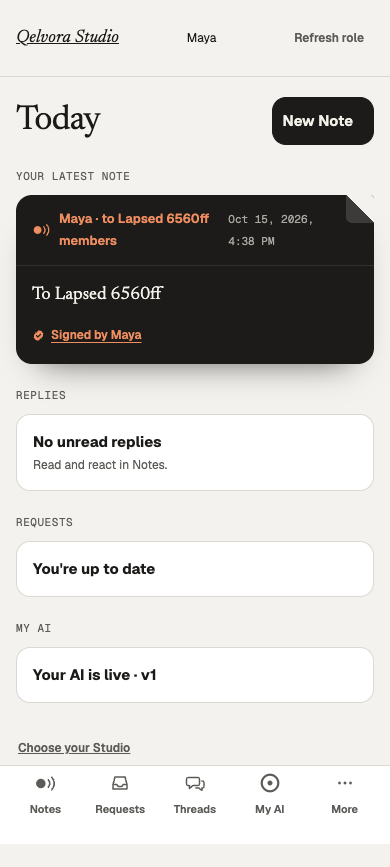
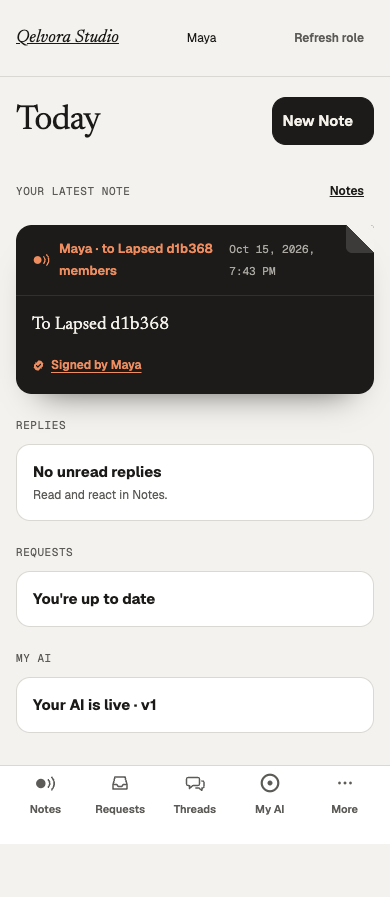
[lane 6] WP 6.2: Notes is one tap from Today; ready for a Today tab
The founder decided (2026-10-15) that Today replaces Notes as the first
Studio tab and that Notes stays reachable from Today. Today's Note part now
links to Notes for every role that sees it, and Studio maps a "Today" tab
to Today, so the integrator's tab bar change in packages/ui-web (ticketed
in the lane 6 status) needs nothing more from lane 6 to work. The founder's
approval of the new copy is recorded too.

E6.2-29, -30 and -31 prove Notes is one tap away for the creator, a drafter
and triage; E6.1 on the final code is unchanged outside the composer.

diff --git a/apps/web/features/studio/today/Today.tsx b/apps/web/features/studio/today/Today.tsx
@@ -140,9 +140,15 @@ export function Today({ creator }: { creator: Creator }) {
         )}
       </header>
       <section className="w5-today-part" aria-labelledby="w5-today-note">
-        <h2 id="w5-today-note" className="qv-meta">
-          {copy.studioTodayLatestNote}
-        </h2>
+        <div className="w5-today-head">
+          <h2 id="w5-today-note" className="qv-meta">
+            {copy.studioTodayLatestNote}
+          </h2>
+          {/* Notes is reached from Today (founder, 2026-10-15). */}
+          <Link className="qv-link-btn" href={`/studio/${id}/notes`}>
+            {copy.navNotes}
+          </Link>
+        </div>
         {status(note)}
         {note.state === "ready" &&
           (note.value ? (

diff --git a/apps/web/features/studio/studio.css b/apps/web/features/studio/studio.css
@@ -285,7 +285,18 @@
   flex-direction: column;
   gap: var(--space-3);
 }
-.w5-studio .w5-today-part > h2.qv-meta {
+.w5-today-head {
+  display: flex;
+  align-items: center;
+  justify-content: space-between;
+  gap: var(--space-2);
+}
+.w5-today-head > a {
+  display: inline-flex;
+  align-items: center;
+  color: var(--ink);
+}
+.w5-studio .w5-today-part h2.qv-meta {
   font-size: 11px;
   font-weight: 400;
 }

diff --git a/apps/web/features/studio/Studio.tsx b/apps/web/features/studio/Studio.tsx
@@ -196,6 +196,7 @@ export function Studio({
     // A composer opened from Today returns there; otherwise to Notes.
     composeBack = `${root}/${from === "today" ? "today" : "notes"}`;
   const paths: Record<string, string> = {
+    Today: `${root}/today`,
     Notes: `${root}/notes`,
     Requests: `${root}/requests`,
     Threads: `${root}/threads`,

diff --git a/docs/lanes/status/lane-6.md b/docs/lanes/status/lane-6.md
@@ -5,11 +5,15 @@ Updated: 2026-10-15, by the lane 6 session resumed from the 2026-10-09 handoff.
 Working on: nothing. WP 6.2 (Today and the Note composer) is done in #443 on
 `lane-6/today-note`; the session stopped for the founder's review, as asked.
 
-Waiting on: the founder's decision on Today's place in the tab bar, and the integrator's
-approval of the small additive change to `config/navigation.json`.
+Waiting on: the integrator: the tab bar ticket below, and approval of the small additive change
+to `config/navigation.json`.
 
-Decided: the founder approved the new Today and composer copy in #443 as proposed (2026-10-15,
-in chat: "The new Today and composer copy in #443 is approved as proposed.").
+Decided by the founder, 2026-10-15, in chat:
+
+- "The new Today and composer copy in #443 is approved as proposed."
+- "Yes: Today replaces Notes as the first Studio tab; Notes stays reachable from Today. Ticket
+  the integrator for the tab bar change." Lane 6's side is in #443: Today links to Notes for
+  every role that sees it, and Studio maps a "Today" tab to Today and marks it on Today.
 
 ## Done
 
@@ -49,14 +53,17 @@ passkey authenticator, the model fake (unused by these checks), and stand-in row
 - `e6-2-audience.mjs` 6/6 plus one known limit: the warning shows only when nobody is in the
   audience, in the composer and on the review sheet; the Note still publishes and a member who
   joins later reads it; grace and cancelled-until-end count, ended does not; team sees `unknown`.
-- `e6-2-today.mjs` 9/9: each role sees only its parts; one failing read leaves the rest; no timer
+- `e6-2-today.mjs` 10/10: each role sees only its parts; one failing read leaves the rest; no timer
   polling (0 reads in 20 s idle, 1 each on return); Light and Night at 390 and 320 px; a screen
-  reader meets the headings and "Note from Maya to …" before the body.
-- E6.1 against a fresh `main` baseline (7ca3982fe, Chrome 155): 82 shots, 77 identical in pixels,
-  calls, console and Tab order, 1 within tolerance (`light/requests-empty/empty`, 11 pixels at
-  1/255, as in round 1), and 4 intended differences: `compose-new/typed` and `/saved` in Light
-  and Night, where the second paragraph, which starts in Arabic, now reads right to left. All 636
-  calls and 1,090 Tab stops are unchanged. The compare script prints FAIL for those 4 by design.
+  reader meets the headings and "Note from Maya to …" before the body; Notes is one tap from Today for the creator, a drafter and triage.
+- E6.1 against a fresh `main` baseline (7ca3982fe, Chrome 155), rerun on the final code after the
+  Notes link: 82 shots, 76 identical in pixels, calls, console and Tab order; 1 within tolerance
+  (`night/requests-empty/empty`, 12 pixels at 1/255, as in round 1); 4 intended differences
+  (`compose-new/typed` and `/saved` in Light and Night: the paragraph that starts in Arabic
+  now reads right to left); and `night/suspended/recovered` counted one role check and one
+  badge poll fewer (timing). A focused repeat of `workspace,suspended` on the same code was
+  identical (6 of 6), as round 1 found for this step. The compare script prints FAIL for the
+  intended differences by design.
 
 Not run: real Touch ID and real phones (Safari on iOS, Chrome on Android), `tests/visual`
 (needs Playwright's own Chromium), the backend integration suite (it does not cover Studio).
@@ -82,10 +89,22 @@ through the C4 read every thread uses.
 
 ## Tickets to other lanes
 
+- **Integrator, the tab bar (founder's decision, 2026-10-15):** Today replaces Notes as the first
+  Studio tab; Notes stays reachable from Today.
+  - `packages/ui-web/src/components.ts` `StudioTabBar` (line 2460): the first tab becomes
+    `["Today", G.home]` instead of `["Notes", G.broadcast]`. The broadcast glyph is the Note's
+    authorship mark, so a neutral glyph suits Today; the glyph is your and the founder's call.
+  - `Sidebar` (line 2500): Today first; whether Notes also stays in the desktop sidebar is your
+    and the founder's call (lane 6 handles either).
+  - `packages/ui-web/src/contracts.ts` `StudioTabBarProps.active` (line 520): add `"Today"`.
+  - Record the decision in the BRIEF (section 8 says "Notes (first tab on phone)") and the
+    `design/phase4c-studio-phone` boards with the founder.
+  - Lane 6 is ready in #443. After the change lands, lane 6 marks Today as the current tab on
+    Notes and the composer (one line in `Studio.tsx`) and reruns E6.1, which will differ on
+    every screen's tab bar by design.
 - **Integrator:** approve the additive `config/navigation.json` change (`today`, and
   `from=today` on the composer only); `packages/ui-web` Note and message bodies should keep line
-  breaks and take their direction per paragraph; with the founder, Today's place in
-  `StudioTabBar` and `Sidebar`.
+  breaks and take their direction per paragraph.
 - **Lane 1:** the signing sheet items in finding 2; an invalid return address after sign-in is
   shown as "Pantopus sign-in is not connected in this local build"; a creator must pick a fan
   handle before any Studio screen except Workspace and Team.

diff --git a/artifacts/lane-6/README.md b/artifacts/lane-6/README.md
@@ -2,12 +2,11 @@
 
 Screenshots that carry a decision, taken on 2026-10-15 in Chrome 155 against the lane 6 stack
 (real backend and PostgreSQL, development identity), at 390 px. There is no Today board in
-`design/`, so these show what is proposed for the founder's yes, with the copy in
-`config/copy.json`.
+`design/`; the founder approved the copy in `config/copy.json` on 2026-10-15.
 
 | File | Shows |
 | --- | --- |
-| `6-2-today-light.png` | Today in Light: New Note, your latest Note, Replies, Requests, My AI. No tab is marked: Today is not a tab yet (founder's decision). |
+| `6-2-today-light.png` | Today in Light: New Note, your latest Note with the link to Notes, Replies, Requests, My AI. No tab is marked yet: the founder decided Today replaces Notes as the first tab, and that tab bar change is the integrator's. |
 | `6-2-today-night.png` | The same in Night, with the warm-paper Note plate. |
 | `6-2-compose-no-members.png` | The composer's warning when nobody is in the chosen audience. |
 

diff --git a/docs/lanes/status/lane-6-c10-today.md b/docs/lanes/status/lane-6-c10-today.md
@@ -24,7 +24,9 @@ message and never hides the others.
 
 "New Note" (creator and drafter) opens `/studio/{creatorId}/compose?from=today`; Cancel and a
 finished Note come back to Today. `from=today` is the only value allowed, on the composer only
-(`config/navigation.json`).
+(`config/navigation.json`). Notes is one tap from Today: a "Notes" link beside "Your latest
+Note", for every role that sees that part (founder, 2026-10-15: Today replaces Notes as the
+first Studio tab; the tab bar change is the integrator's, in `packages/ui-web`).
 
 ## What the composer reads: audience reach
 
